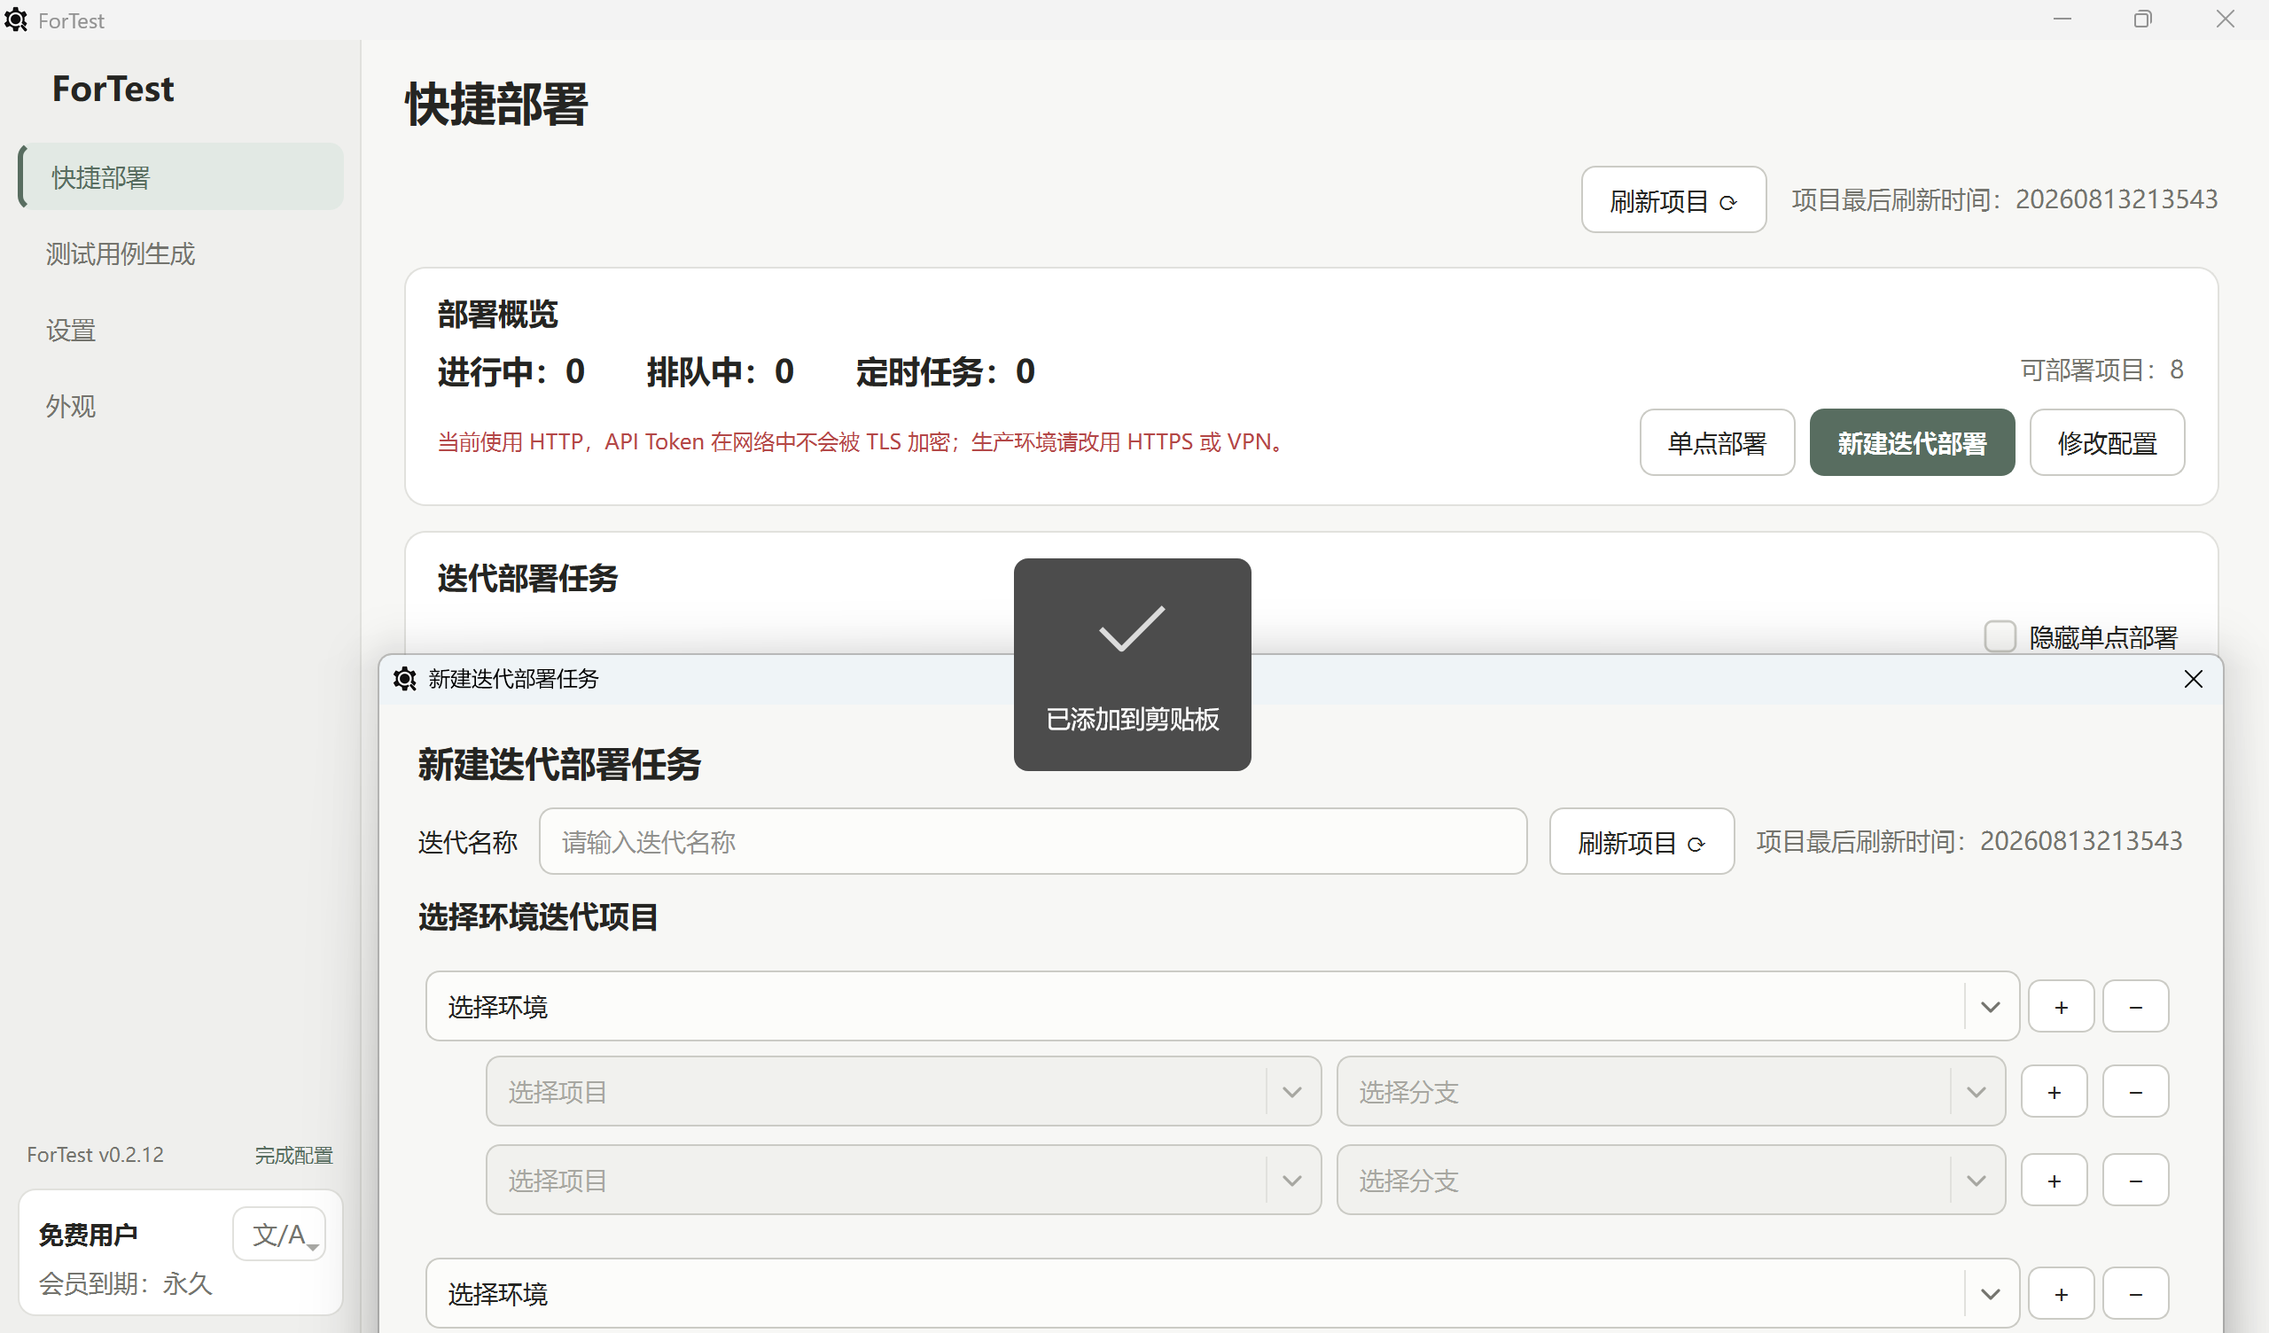
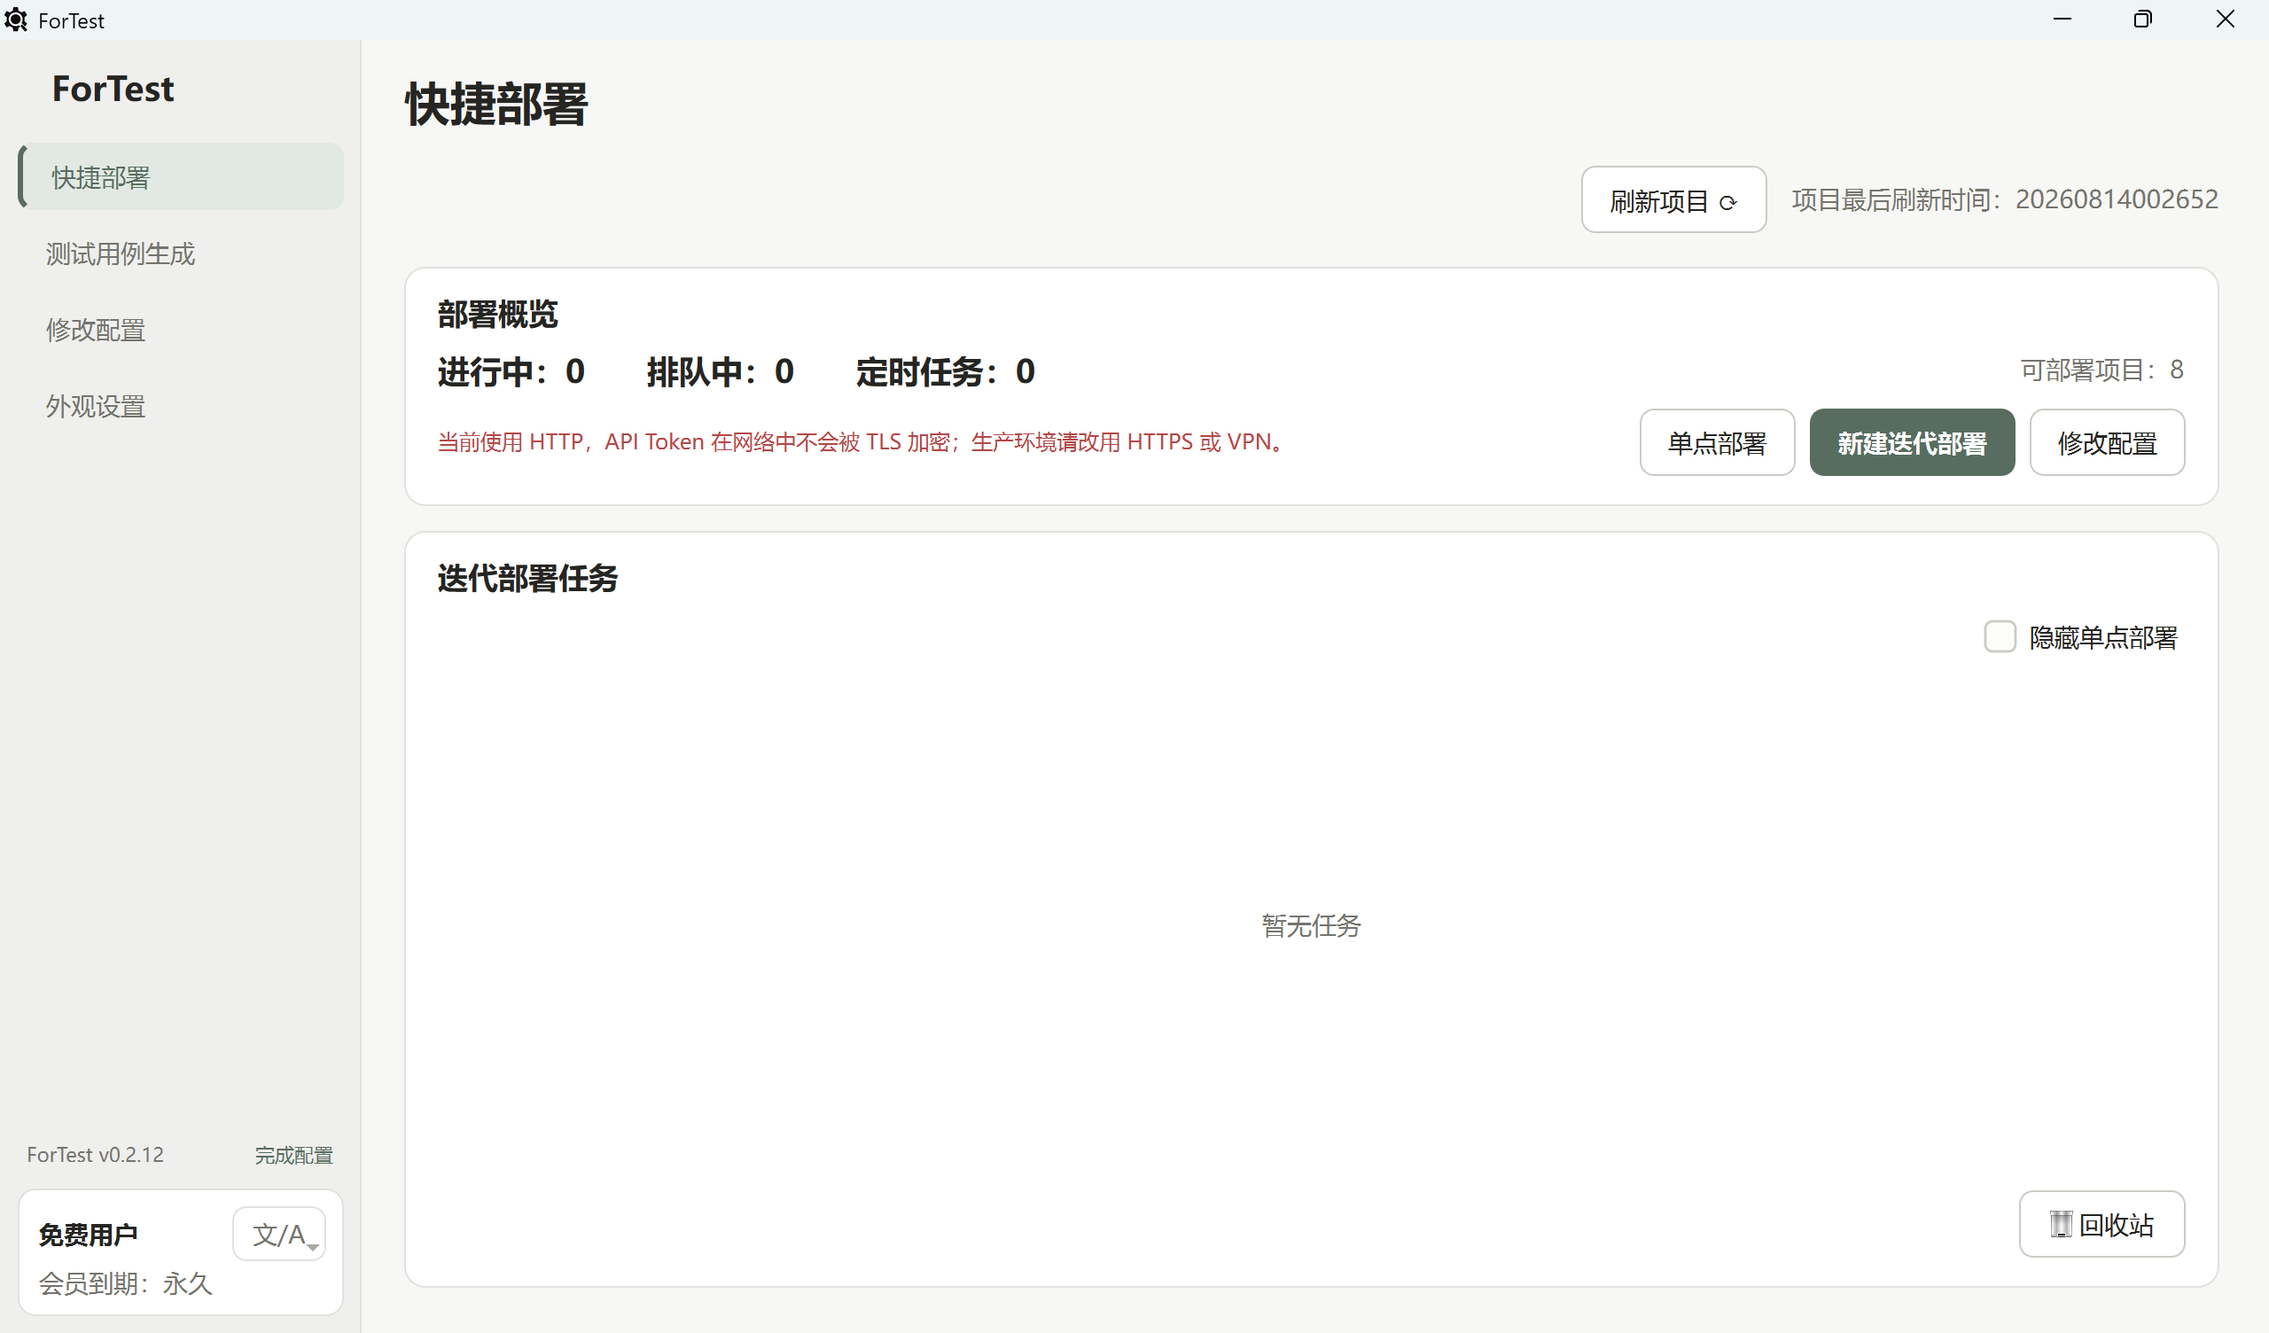
docs: add synchronized English project guide

diff --git a/README.en.md b/README.en.md
@@ -1,0 +1,155 @@
+# ForTest
+
+[简体中文](README.md) | English
+
+A native Windows desktop tool developed with the assistance of Codex for software test engineers, focused on streamlined Jenkins deployment and high-quality test case generation.
+
+[Download the latest release](https://github.com/wiksongkim-arch/ForTest/releases/latest) · [Report an issue](https://github.com/wiksongkim-arch/ForTest/issues) · [Contribute](CONTRIBUTING.md) · [Report a security issue](SECURITY.md)
+
+## Introduction
+
+ForTest is a Windows desktop tool developed with the assistance of Codex for software test engineers. It turns repetitive and fragmented testing work into clear, reusable, and traceable workflows, reducing the need to switch repeatedly among requirement documents, models, test case templates, and deployment platforms.
+
+The current release is a fully native Windows x64 desktop application. It does not depend on a browser interface and does not start Streamlit, FastAPI, or a local web service. It currently contains two core modules: **Jenkins Quick Deploy** and **Test Case Generation**.
+
+## Core Capabilities
+
+### Jenkins Quick Deploy
+
+Built on the Jenkins REST API and parameterized Pipeline jobs, this module uses the test environment as its primary organizational dimension. Multiple projects and their target branches can be grouped into one iteration and deployed immediately or on a schedule. Deployment subtasks within the same iteration are submitted to the Jenkins queue in parallel, while separate iteration tasks run in sequence to improve efficiency without losing predictable iteration order.
+
+The module brings together Jenkins connections and project configuration, single deployments, iteration deployments, scheduling, task queues, status tracking, task cancellation, and recycle-bin management. It is designed to remove the repetitive work of opening Jenkins, selecting parameters, triggering jobs one by one, and continuously checking results across multiple clients, projects, and branches.
+
+### Staged Test Case Generation
+
+Following a real-world test case authoring process, generation is organized into stages such as **requirement decomposition, image understanding, component matching, case generation, and template-based output**. Large illustrated requirements are split by heading hierarchy and safe processing boundaries, preserving context and image associations while each section is handled. Every AI stage can use its own prompt, model, and parameters, together with team-specific field rules and reusable test case component templates.
+
+This staged and constraint-driven approach is intended to reduce context omissions, model hallucinations, and format drift that may occur when an entire large illustrated requirement is sent directly to a single agent. The system supports parallel tasks, lifecycle status management, local result backups, and online document output. With suitable source requirements, model capabilities, template configuration, and human review, it can support output at the scale of thousands of test cases, with the goal of producing broad coverage, executable steps, maintainable content, and consistent formatting.
+
+The current release primarily uses **document MCP integration** for online documents and provides focused support for **Codex CLI** discovery, configuration, model selection, and runtime version management. Additional document platforms and model integrations will be added gradually. Refer to each Release and the in-app connection checks for the currently supported scope.
+
+## Codex Skill Validation and Roadmap
+
+In addition to the two modules already delivered in the desktop application, the project has validated several testing workflows in Codex Skill form. The capabilities below may be productized gradually according to stability and real-world feedback; **they are not currently bundled as stable features in the latest desktop Release**:
+
+1. **Reverse requirement completion**: infer and complete missing requirement descriptions and acceptance criteria using existing implementations, test materials, and business context.
+2. **Requirement analysis and gap detection**: inspect coverage, boundary conditions, error scenarios, roles and permissions, ambiguities, and contradictions across a requirement.
+3. **Production issue diagnosis bot**: organize symptoms, logs, environments, and historical information into a structured investigation path that helps identify likely causes and verification steps.
+4. **Automated test case execution**: explore connecting structured test cases to automation tools and collecting execution status, evidence, and results.
+5. **More end-to-end testing capabilities**: including additional platform integrations, local-code-based requirement analysis, requirement research and archiving, local project code management, and database management.
+
+This roadmap describes the current direction of exploration and is not a commitment to a specific version, release date, or delivery scope.
+
+## Engineering and Usability
+
+- Native Qt desktop experience with system, light, and dark appearance modes.
+- Instant switching among Simplified Chinese, Traditional Chinese, and English.
+- Configuration, task history, logs, and generated files are stored under `%LOCALAPPDATA%\ForTest\UserData` instead of the installation directory.
+- Secrets are stored separately from ordinary settings, and credentials are redacted from logs and error messages.
+- Built-in task queues, recycle bins, actionable error messages, and recoverable data migration.
+- The installer includes application dependencies and the Codex CLI runtime, so end users do not need to configure Python.
+
+## Quick Start
+
+### System Requirements
+
+- Windows 10 version 1809 or later, or Windows 11
+- 64-bit operating system (x64)
+- A reachable Jenkins service and an account with the required permissions for Jenkins features
+- Network access and valid credentials for the relevant document and model services
+
+### Installation and First Use
+
+1. Open [GitHub Releases](https://github.com/wiksongkim-arch/ForTest/releases/latest) and download `ForTest-Windows-x64-Setup-0.2.12.exe`.
+2. Compare the file against the SHA-256 value on the Release page, then run the installer. ForTest installs to the current user's directory by default and does not require administrator privileges.
+3. Start ForTest and complete the required setup shown on the home screen:
+   - Quick Deploy: enter the Jenkins URL, username, and API Token, then test the connection.
+   - Test Case Generation: configure the document MCP, output destination, models, and prompts. When using Codex CLI, follow the in-app guidance to sign in or select a runtime.
+4. Return to the relevant workspace and create a deployment task or test case generation task.
+
+> The current public installer is not signed with an Authenticode certificate, so Windows may display an application reputation warning. Download it only from this repository's Releases and verify its SHA-256 first. Do not run a file whose source or digest does not match.
+
+## Interface Preview
+
+### Jenkins Quick Deploy
+
+Refresh projects, run single or iteration deployments, schedule tasks, and track execution status.
+
+![ForTest Jenkins Quick Deploy interface](png/1en.png)
+
+### Staged Test Case Generation
+
+The generation page provides direct access to online output, local backups, the task queue, and the recycle bin.
+
+![ForTest test case generation task interface](png/2en.png)
+
+Each processing stage can use its own model, prompt version, and test case component template, allowing a team's methodology to become a reusable workflow.
+
+![ForTest staged test case configuration interface](png/3en.png)
+
+### AI and Runtime Settings
+
+Manage model configurations, Codex CLI sources and versions, models, and reasoning parameters in one place, with individual connection checks.
+
+![ForTest AI and Codex CLI settings interface](png/4en.png)
+
+> Preview images use demonstration or redacted data. Before attaching an image to an Issue, remove document links, accounts, tokens, local paths, and business data.
+
+## Current Limitations
+
+- Only a Windows x64 desktop edition is currently available; macOS, Linux, ARM64, and web editions are not supported.
+- Online requirements currently use the document MCP workflow; other collaboration platforms have not yet been released as stable capabilities.
+- Codex CLI is the primary model invocation path currently under focused validation. Treat other models and compatible interfaces according to their in-app check results.
+- Jenkins, document platform, and model operations remain subject to the permissions, network access, certificates, and quotas of those external services.
+- Generated test cases assist analysis and must still be reviewed by a test engineer against the actual requirement before release or execution.
+
+## Repository Structure
+
+| Path | Description |
+| --- | --- |
+| `windows_native/` | Native Qt desktop application, Jenkins module, UI components, runtime management, tests, PyInstaller configuration, and Inno Setup installer scripts. |
+| `backend/` | Shared business core for AI configuration, prompts, generation workflows, settings models, and security validation. |
+| `services/` | Integrations for document MCP, spreadsheet output, and requirement document processing. |
+| `utils/` | Shared utilities such as Excel output and default template loading. |
+| `tests/` | Unit, integration, security, and regression tests for the shared business core. |
+| `windows_native/tests/` | Tests for the native desktop application, Jenkins integration, task scheduling, startup flow, and offscreen UI. |
+| `windows_native/assets/` | Application icons and bundled templates that are licensed for redistribution. |
+| `png/` | Redacted interface previews used by the Chinese and English READMEs. |
+| `.github/` | Issue and Pull Request templates plus Windows CI workflows. |
+| `docs/` | Long-lived security, privacy, and source publication documentation for maintainers. |
+| `scripts/` | Maintenance utilities such as data migration scripts. |
+
+Build artifacts, virtual environments, user configuration, logs, one-off validation records, and development assistant files are ignored by Git and are not part of the published source package.
+
+## Development, Testing, and Packaging
+
+Run the complete build in a 64-bit Windows PowerShell session:
+
+```powershell
+powershell -ExecutionPolicy Bypass -File windows_native\build.ps1
+```
+
+The build script creates an isolated environment and then performs:
+
+1. Source privacy gate;
+2. Native desktop and offscreen UI tests;
+3. Shared business core regression tests;
+4. Windows x64 application packaging and PE architecture checks;
+5. Artifact privacy gate and packaged startup diagnostics;
+6. Inno Setup installer generation.
+
+The resulting installer is written to `windows_native/dist/installer/`. See [`docs/security/package-privacy.md`](docs/security/package-privacy.md) for the privacy boundaries covering runtime data, installer contents, and the public repository.
+
+## Source Availability and Collaboration
+
+ForTest welcomes contributions within clearly defined boundaries:
+
+- Use [GitHub Issues](https://github.com/wiksongkim-arch/ForTest/issues) to report reproducible problems or suggest improvements. Do not attach real credentials, private documents, or internal service addresses.
+- Before contributing code, read [`CONTRIBUTING.md`](CONTRIBUTING.md) and [`CODE_OF_CONDUCT.md`](CODE_OF_CONDUCT.md). Keep changes focused and include the relevant tests and localized UI text.
+- Whenever `README.md` or `README.en.md` changes, update the other language in the same commit and verify the matching screenshots, links, and capability boundaries.
+- Report security vulnerabilities through the private channel described in [`SECURITY.md`](SECURITY.md), rather than disclosing them first in a public Issue.
+- Pull Requests and pushes to `main` run the privacy gate and both regression test suites on Windows.
+
+This project's source is published under the [PolyForm Noncommercial License 1.0.0](LICENSE). Personal learning, research, testing, and other noncommercial uses are permitted, as are modification and distribution within the same noncommercial boundary. Commercial use, commercial integration, or redistribution for a commercial purpose requires separate written permission from `wiksongkim-arch`. Third-party dependencies, fonts, icons, and templates remain subject to their respective licenses.
+
+ForTest is therefore a **source-available** project, not open-source software under the OSI definition. Before downloading, using, or distributing it, refer to the complete [`LICENSE`](LICENSE) text in this repository.

diff --git a/README.md b/README.md
@@ -1,5 +1,7 @@
 # ForTest
 
+简体中文 | [English](README.en.md)
+
 由 Codex 协助开发、面向软件测试工程师的原生 Windows 桌面工具，聚焦 Jenkins 快捷部署与高质量测试用例生成。
 
 [下载最新版本](https://github.com/wiksongkim-arch/ForTest/releases/latest) · [提交问题](https://github.com/wiksongkim-arch/ForTest/issues) · [参与贡献](CONTRIBUTING.md) · [安全报告](SECURITY.md)
@@ -112,7 +114,7 @@ ForTest 是一款使用 Codex 参与开发、面向软件测试工程师的 Wind
 | `tests/` | 共享业务核心的单元、集成、安全和回归测试。 |
 | `windows_native/tests/` | 原生桌面端、Jenkins、任务调度、启动流程和离屏 UI 测试。 |
 | `windows_native/assets/` | 应用图标及可合法分发的内置模板。 |
-| `png/` | README 使用的脱敏界面预览图。 |
+| `png/` | 中英文 README 使用的脱敏界面预览图。 |
 | `.github/` | Issue/PR 模板与 Windows CI 工作流。 |
 | `docs/` | 面向维护者长期有效的安全、隐私和源码发布规范。 |
 | `scripts/` | 数据迁移等维护脚本。 |
@@ -144,6 +146,7 @@ ForTest 欢迎在明确边界内参与改进：
 
 - 使用 [GitHub Issues](https://github.com/wiksongkim-arch/ForTest/issues) 报告可复现的问题或提出建议；请勿附带真实凭据、私有文档或内部服务地址。
 - 提交代码前请阅读 [`CONTRIBUTING.md`](CONTRIBUTING.md) 和 [`CODE_OF_CONDUCT.md`](CODE_OF_CONDUCT.md)，保持改动聚焦，并补充相应测试与多语言文案。
+- 修改 `README.md` 或 `README.en.md` 时，必须在同一次提交中同步更新另一语言版本，并核对对应语言的界面截图、链接和能力边界。
 - 安全漏洞请按 [`SECURITY.md`](SECURITY.md) 提供的私密渠道报告，不要先在公开 Issue 中披露。
 - Pull Request 和 `main` 分支推送会在 Windows 环境执行隐私门禁及两组回归测试。
 

diff --git a/CONTRIBUTING.md b/CONTRIBUTING.md
@@ -32,6 +32,7 @@ powershell -ExecutionPolicy Bypass -File windows_native\build.ps1
 
 - 每个 Pull Request 聚焦一个问题，说明修改原因、主要行为和验证结果。
 - 新功能或缺陷修复应包含对应测试；界面修改建议附截图。
+- `README.md` 与 `README.en.md` 是必须同步维护的中英文版本。修改任一文件时，应在同一次提交中更新另一文件，并同步检查对应语言的截图、链接、版本号和能力边界。
 - 保持提交信息简洁明确，例如 `fix: prevent duplicate deployment tasks`。
 - 确认测试、隐私门禁和 GitHub Actions 全部通过。
 

diff --git a/.github/PULL_REQUEST_TEMPLATE.md b/.github/PULL_REQUEST_TEMPLATE.md
@@ -9,6 +9,7 @@
 - [ ] `python -m pytest tests -q` 通过
 - [ ] 源码隐私门禁通过
 - [ ] 不包含凭据、个人路径、真实业务地址或客户数据
+- [ ] 如修改了 `README.md` 或 `README.en.md`，已同步更新另一语言版本及对应截图
 
 ## 界面变化
 
